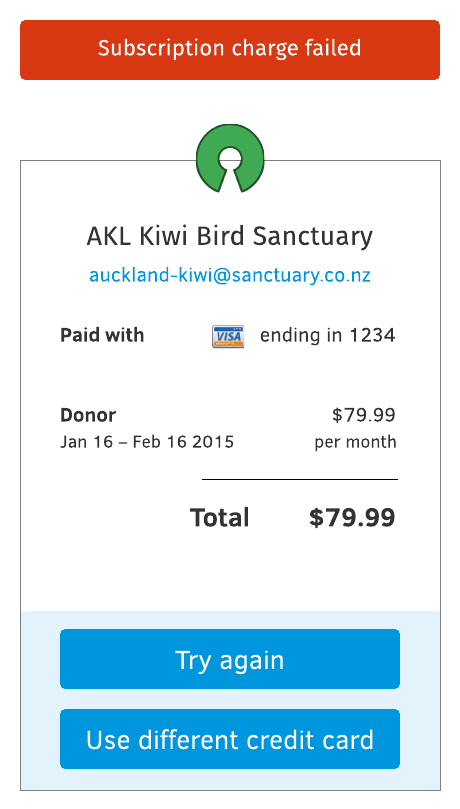
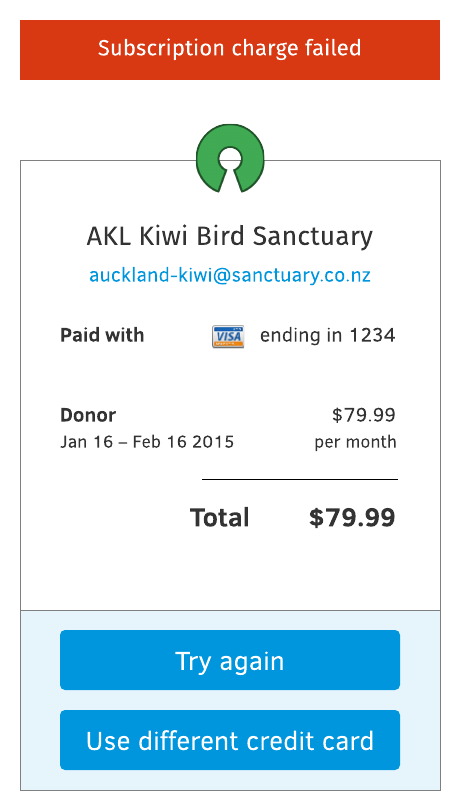
Added subscription cancelled email receipt
Fixes /payments-service#77

diff --git a/docs/design/emails.rst b/docs/design/emails.rst
@@ -74,11 +74,14 @@ I’m not sure where this link should lead to. Should it lead to the buy flow if
 
 Subscription cancelled
 ++++++++++++++++++++++
+
 Subscription cancellation can happen without the users being present. For example the default flow is something like:
 
 * charge fails, notify user
 * 10 days later, charge fails, notify user
 * 20 days later, charge fails, cancel subscription.
+
+.. image:: api/ux-email-receipt-subscription-cancelled.png
 
 In the UI and other elements, we should:
 
